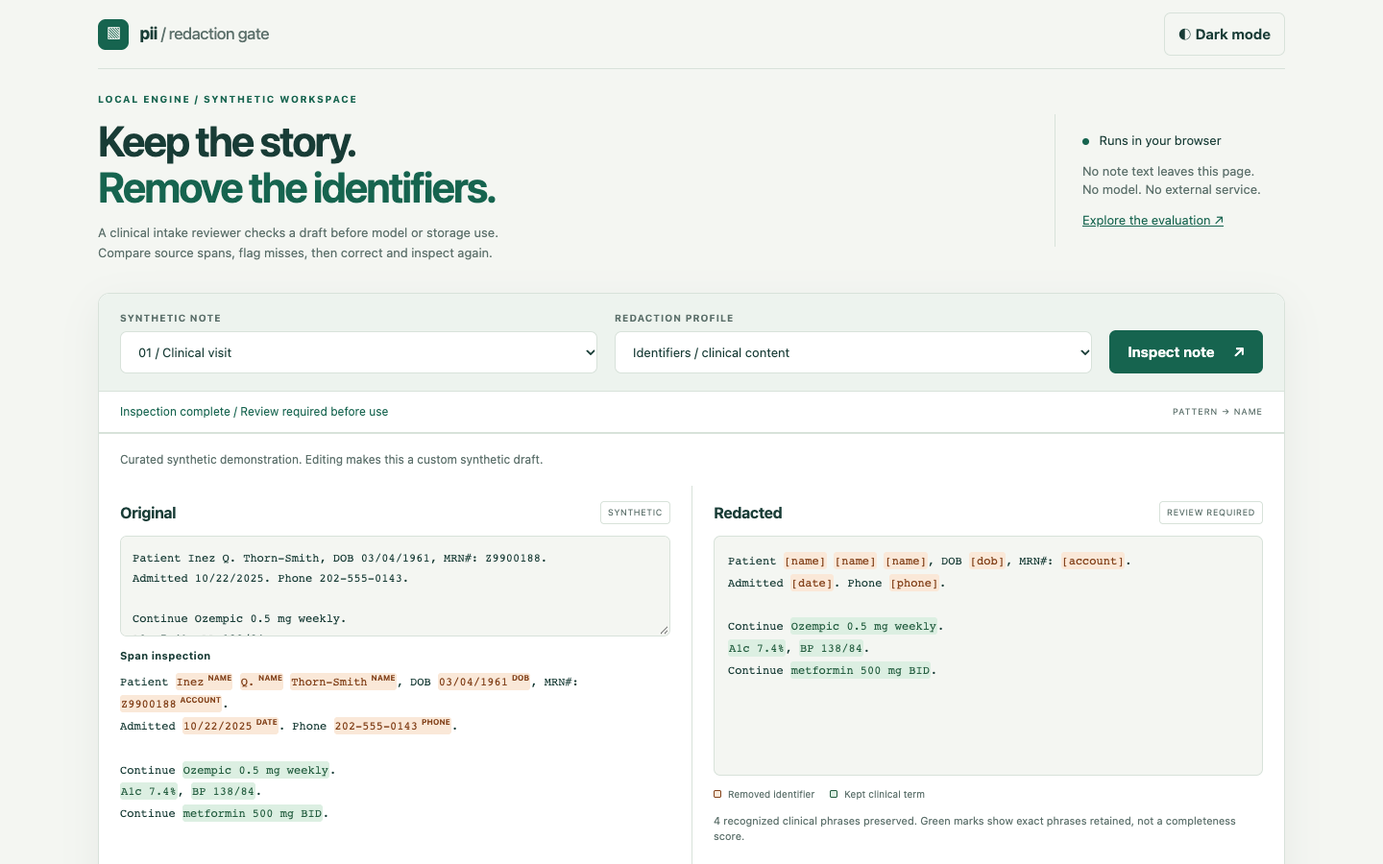
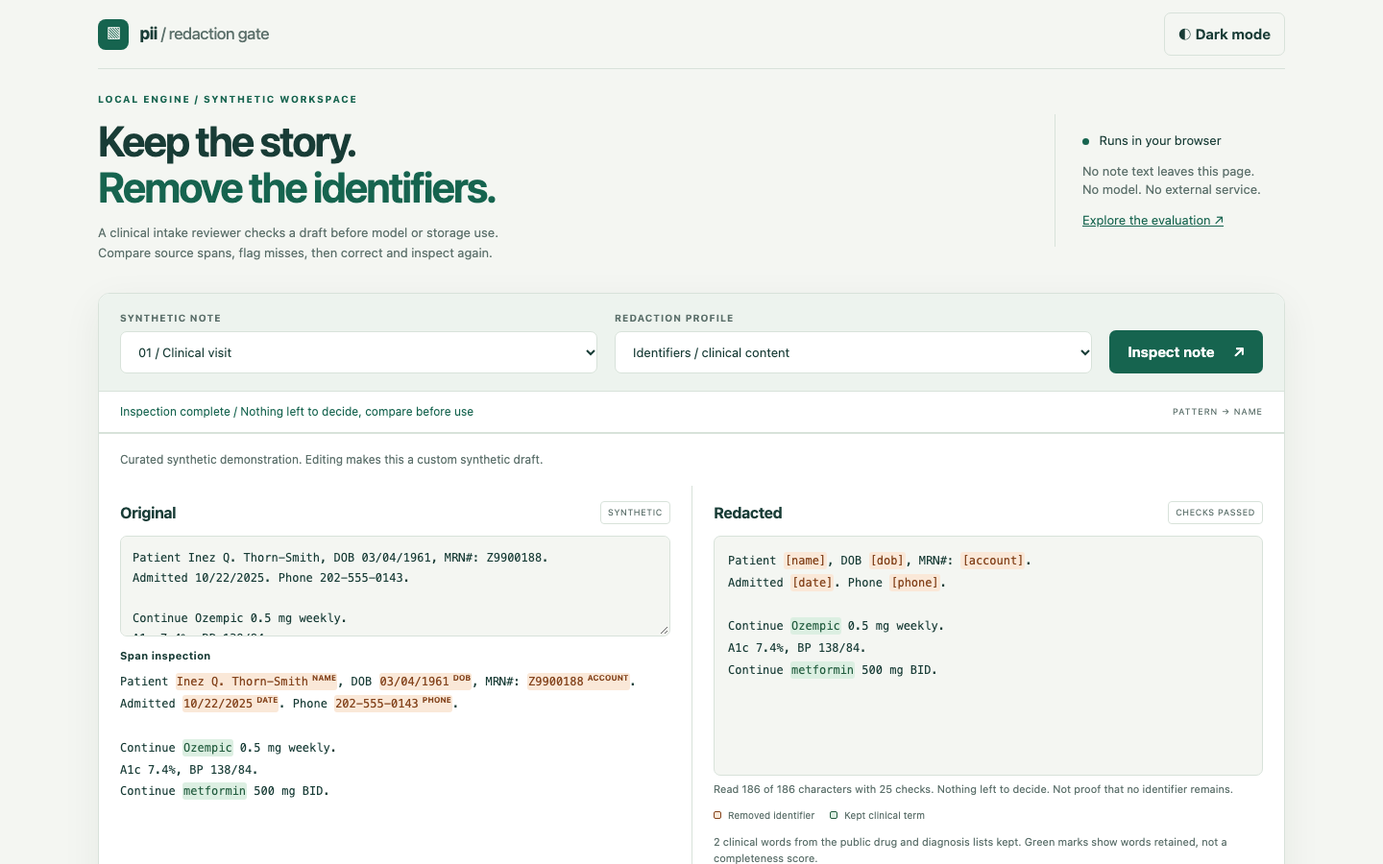
Fix plural wording in the demo scan report and refresh its screenshot
The screenshot is a headless Chrome capture of the current page at
1440 by 900. The other files in docs/media still show the earlier page.

diff --git a/docs/demo.js b/docs/demo.js
@@ -54,7 +54,8 @@ function showScan(result) {
  const s = result.scan
  const read = `Read ${s.read} of ${s.characters} characters with ${s.checks.length} checks.`
  const not = s.notChecked.length ? ` Not checked under this profile: ${s.notChecked.join(', ')}.` : ''
- const verdict = result.status === 'review' ? ` ${result.review.length} span${result.review.length === 1 ? '' : 's'} need review before sending.` : ' Nothing left to decide. Not proof that no identifier remains.'
+ const n = result.review.length
+ const verdict = result.status === 'review' ? ` ${n} span${n === 1 ? ' needs' : 's need'} review before sending.` : ' Nothing left to decide. Not proof that no identifier remains.'
  $('scan-report').textContent = read + not + verdict
  for (const r of result.review) {
   const li = document.createElement('li')
@@ -122,7 +123,7 @@ async function run() {
    $('counts').append(item)
   }
   if (!$('counts').children.length) $('counts').textContent = blocked ? 'Withheld on failure' : 'No rules matched'
-  $('kept').textContent = blocked ? 'No content is available for sending.' : `${current.kept.length} clinical words from the public drug and diagnosis lists kept. Green marks show words retained, not a completeness score.`
+  $('kept').textContent = blocked ? 'No content is available for sending.' : `${current.kept.length} clinical word${current.kept.length === 1 ? '' : 's'} from the public drug and diagnosis lists kept. Green marks show words retained, not a completeness score.`
   showScan(current.result)
   $('send-status').textContent = blocked ? 'Send gate: BLOCKED. No payload available.' : review ? 'Send gate: refused until a reviewer marks the flagged spans reviewed.' : 'Send gate: ready for a local simulated attempt.'
  } catch {

diff --git a/README.md b/README.md
@@ -1,86 +1,138 @@
 # Clinical text redaction gate
 
-For teams exploring how to protect free text before a model prompt or a record write. Clinical notes mix identifiers with useful information. This small, deterministic engine removes recognized identifier shapes while preserving medications, doses, lab values and conditions. If a redaction stage fails, the send gate refuses the record.
+A rule-based gate for clinical free text on its way to a model prompt or a record store. It removes identifiers, keeps the clinical content (drugs, doses, labs, diagnoses), and tells you what it could not decide. Every result is one of three things:
 
-**This is a synthetic-data demonstration, not validated clinical de-identification.** A successful run can still contain identifiers. No real patient, employer or clinical data was used.
+- **clean**: every check this profile runs read the whole input and found nothing left to decide. This is not proof that no identifier remains. The result lists what was read, which checks ran, and the known gaps no check can see.
+- **review**: some spans could not be decided (a word that could be a name or a term, a number that looks like a scan error, a script the rules do not read). The send guard refuses the result until a person has looked.
+- **blocked**: something failed or could not be read. The output is `[redaction-blocked]` and nothing is sent.
 
-![Interactive redaction flow with synthetic text](docs/media/demo-1440.png)
+**This is not validated de-identification.** It is a public demonstration built and tested on synthetic text and on public case reports with fictional identifiers planted in them. No real patient data was used. Do not use it as the only control for protected health information.
+
+## Honest headline
+
+| Test set | What it is | Result | Status of the set |
+|---|---|---|---|
+| Real public case reports, 9 documents, 38 planted fictional identifiers ([PR 4](https://github.com/kvmadden/pii-redaction-gate/pull/4)) | Open-access case reports with identifiers planted by a program | Untuned gate (main before this work): **20 of 38 removed (52.6%)**, an identifier left in **9 of 9** documents | The honest current measure for main |
+| Same 9 documents | | This branch: 35 of 38 removed, an identifier left in 2 of 9 documents, both marked for review | Development data. Its failure list was public and its misses were read while rules changed |
+| 182 synthetic snippets, 207 labeled identifiers | Written with the first release | This branch: 184 of 207 (88.9%). 184 of 195 (94.4%) without the 12 ages under 90 the policy keeps | Development data |
+| 27-template development check | 27 identifier templates written 4 times each, plus 6 clinical sentences | This branch: 26 of 27 templates. The one miss is the title in "Dr. Emrys Calder", which is kept on purpose | Development data. Not held out: its vocabulary was added to a protected word list after it was committed |
+
+No number on this page comes from a set that was written blind and locked before its first run. A fresh blind set is specified in [docs/fresh-test-spec.md](docs/fresh-test-spec.md). Until it is written, scored once and published, there is no headline accuracy figure.
+
+Earlier versions of this README and its case page reported **104 of 108 (96.3%)** on a "held-out" set. That set is the 27-template development check above. Its 108 rows are 27 templates written four times, and its own words (Jardiance, Rheumatoid, Portal, Telephone) were added to the name tier's protected list after it was frozen. The figure is withdrawn.
 
 ## Try it
 
-Run `npm run demo` in this repository, then open [the redaction inspector](http://127.0.0.1:8769). No install step is needed with Node 22 or later. Pick a fictional note or paste synthetic text, choose one of the four real profiles, review labeled original spans beside redacted text and per-type counts, and try the simulated send. Switch between light and dark themes with the header button. Choose Blank note to see the empty state. Green marks identify a finite set of clinical phrases preserved verbatim, not every clinical term. Toggle a pattern failure to see the same engine return a blocked placeholder and the shared send guard refuse it. Editing a note invalidates the previous result. No note text is transmitted or persisted by the demo. The faxed prior authorization request, discharge summary and pharmacy refill call are curated transcriptions with synthetic source IDs and dates. They are separate from the frozen evaluation corpus. Review actions save action metadata in browser local storage until cleared. They never authorize a send or certify output. The inspector includes original and held-out identifier recall with grouped precision from `eval/comparison.json`.
+```bash
+# Library
+node --input-type=module -e "
+import { redactText, assertSendable } from './src/index.js'
+const r = redactText('Patient Inez Thorn, DOB 03/04/1961, seen at Riverside Clinic. Continue metformin 500 mg BID.', { source: 'clinical-note' })
+console.log(r.text, r.status, r.review)
+"
 
-Screenshot assets at 1440×900 and 390×844, full mobile views, dark and blocked states, and the short [core flow GIF](docs/media/inspector-flow.gif) are in `docs/media/`.
+# Command line: exit 0 clean, 3 needs review, 2 blocked, 1 usage error
+printf 'Patient Inez Thorn, MRN 4471023. Continue metformin.\n' | node bin/redaction-gate.js --source clinical-note
 
-The static demo also works when the `docs` directory is served on its own. Its runtime modules are exact generated copies of the production modules, checked by a test. No build service, API key or paid model is involved. The send action is a local simulation, not a clinical workflow integration.
+# Browser demo, local only
+npm run demo   # then open http://127.0.0.1:8769
+```
 
-## Reviewer workflow and product boundary
+No install step and no dependencies with Node 22 or later. Nothing is sent over the network.
 
-A clinical intake reviewer compares a synthetic transcription with redacted output before handing a draft to a downstream application. A missed identifier is flagged locally, then the reviewer corrects the draft and inspects again. Marking reviewed is an acknowledgment only. The simulated send still exercises the existing engine gate independently. No OCR, EDI parsing, clinical decision, coverage determination or refill authorization is implemented.
+In the demo, pick a fictional note, compare the original spans with the redacted text, and read the scan report under the output: characters read, checks run, checks this profile skips, and each span that needs review with its reason. The simulated send passes a clean result, refuses a review result until "Mark as reviewed" is pressed for that exact revision, and refuses a blocked one. The failure toggle makes the engine fail at the pattern stage to show the blocked path.
 
-This reusable engine and send guard are the shared capability. Source-specific intake, identity verification and clinical decisions belong to consuming applications. Rules are the baseline because their behavior is inspectable and has no model-call cost. This prototype adds no generative model. Detection misses remain visible rather than hidden by a model novelty claim. A future model or OCR integration would need a new frozen evaluation and accountable review before use.
+## How it decides
 
-The local log has no authentication, reviewer identity, tamper protection or cross-user isolation. It stores fixture category or custom-draft label, page revision, profile, action and timestamp, without note text or identifier values. Page revisions restart on reload and cannot reconstruct an input. It is a usability demonstration, not a durable clinical audit system. Clear it on a shared browser.
+The text runs through up to three tiers, then a residual scan reads the output again.
 
-Workflow value is unmeasured. Before expanding scope, measure reviewer time, missed-identifier flags, correction cycles and acceptance on independently labeled synthetic cases. Do not infer clinical benefit from engine latency or browser clicks. The [15-check assessment](docs/evidence/polish/assessment.md) distinguishes implemented evidence from remaining limits. This change was implemented and tested with Codex assistance, building on the existing engine and evaluation.
+1. **Patterns.** Email, SSN, dates of birth, Luhn-checked cards, phones (including international and Unicode dash forms), street addresses, city with state and ZIP, coordinates. Under the clinical profiles also URLs, validated IPv4 and IPv6, MAC addresses, labeled record and plan numbers, dates in numeric, ISO, month-name and ordinal forms, and ages over 89. Dates are validated, so "2/3 weeks", "3/4 strength" and a prednisone taper stay. Every rule runs in linear time, and inputs over 2,000,000 characters block.
+2. **Names.** Known names from an optional people map become role tokens (`[patient]`). Then a token classifier decides each capitalized word from evidence: titles, labels, relation words, greetings and sign-offs, facility types, initials, eponyms before a clinical head noun ("Bell palsy"), first plus last name pairs, heading runs, and finally the word's class and position. A title outranks every word list. When the evidence conflicts, the word goes to review.
+3. **Topics** (standard and strict profiles only). Removes whole sentences about sensitive personal topics.
+4. **Residual scan.** Undecided or name-shaped words, unlabeled long numbers and letter-digit codes, digits mixed with O, I or l, birth years without a reference date, scripts the rules do not read, invisible characters, obfuscated email, and unredacted "Name:" fields. Each becomes a review item with offsets into the output.
 
-## What changed and how it was tested
+The name tier's vocabulary is not hand-picked. It is built by [scripts/build-lexicon.mjs](scripts/build-lexicon.mjs) from public-domain sources, each pinned by SHA-256 in [data/lexicon/manifest.json](data/lexicon/manifest.json): US Census 2010 surnames and 1990 first names, Drugs@FDA product names and ingredients, CMS ICD-10-CM 2025 descriptions, and Webster's Second International word list. A test checks that the words the old list took from the template set (Jardiance, Rheumatoid, Portal, Telephone) and the template names do not appear in the name-tier source, and that the public lists still classify those words.
 
-The [original published evaluation](eval/results.md) remains unchanged: **70.5% recall, 146 of 207 identifiers**, on 182 synthetic snippets. The original dataset is unchanged too. It now serves as development evidence, not an unseen test.
+## Profiles and sources
 
-Before changing detection rules, a [seeded generator](eval/generate-heldout.js) and its [held-out fixtures](eval/heldout.json) were committed in `d05d144`. The engine changes were committed in `dc528aa` before the held-out set was scored. No detection changes followed that scoring. The held-out set has 114 snippets, 108 identifiers, and 114 labeled clinical negatives. It uses four variants of each of 27 identifier templates plus six clinical-only notes. Its repeated grammar and single author limit its independence and diversity.
+| Profile | Tiers | Used for |
+|---|---|---|
+| `identifiers` (default) | patterns with clinical rules, names with the unknown-name pass, residual scan | clinical notes, discharge summaries, referral letters, patient messages, call and voice transcripts |
+| `strict` | all of the above plus topic sentences | personal email and SMS, where the topic itself is sensitive |
+| `standard` | basic patterns, known names, topic sentences | general free text, support tickets, chat exports |
+| `light` | basic patterns only, code spans exempt and reported as not read | source code, build logs, commit messages |
 
-Both engines were scored with an empty people map, the `identifiers` profile, the same scorer and identical fixtures. The baseline engine is untouched `origin/main` at `91c4e16`. Full removal requires every labeled letter and digit to be removed. Hard-negative preservation requires every labeled clinical character to survive.
+A source id that is not registered in `src/profiles.js` blocks. A typo such as `clinical_note` used to select `standard` silently and return a note unchanged. To accept unknown sources on purpose, pass `{ unknownSource: 'identifiers' }`.
 
-| Dataset | Identifier recall before → after | Span precision before → after | Clinical negatives preserved before → after |
-|---|---|---|---|
-| Original, 207 identifiers | 70.5% → **90.3%** (187/207) | 82.6% → **97.0%** | 88.1% → **98.2%** (223/227) |
-| Held out, 108 identifiers | 25.9% → **96.3%** (104/108) | 66.7% → **96.4%** | 84.2% → **100%** (114/114) |
-
-[Before and after tables](eval/comparison.md) report every identifier type's recall, precision by compatible type family, and every remaining miss and false-positive span. [Raw results](eval/comparison.json) also include damaged clinical spans and character precision. Precision uses emitted spans overlapping gold, rather than exact entity boundaries. Names, relatives and facilities share a prediction family, as do labeled account and record IDs. These grouping choices are explicit in the report. They do not establish regulatory performance.
-
-New regression tests were run RED before implementation, then GREEN. The full repository suite passes on untouched main and on the candidate. Existing tests inject failing stages, test blocked writer behavior and check that failures never return input text. [Verification evidence](docs/evidence/verification.md) records commands, exit codes and visual checks.
-
-## Results and limits a reader should inspect
-
-- Dates now include numeric, ISO, month-name and contextual month/day forms. Year alone remains. Ages over 89 are targeted. Younger ages are retained. The original set labels younger ages as identifiers, so its recall intentionally includes those misses.
-- Labeled MRNs, accounts, plan numbers, device serials, licenses and vehicle identifiers now accept alphanumeric values. URLs and some IP formats are covered. Unlabeled IDs and unsupported international formats can survive.
-- The name pass handles middle initials, compound surnames and family context. A finite clinical vocabulary protects common brands, eponyms and section headings. It is not a comprehensive drug dictionary or named-entity model. Unknown clinical terms may still be removed, and names that overlap vocabulary can survive.
-- All four held-out misses are the same IPv4 template, `192.0.2.87.` at sentence end. IPv6 in this set was caught. This known boundary bug was retained after held-out scoring to honor the no-tuning rule. It needs a future independently frozen test set before another improvement claim.
-- Original-set misses include lowercase `tanya`, single names such as `Omar`, and grouped member numbers. False positives and damaged negatives remain, including some clinical or section vocabulary. See the complete lists rather than relying on the aggregate.
-- The held-out city-plus-ZIP template labels only the city. Its unlabeled ZIP is correctly removed but counted as a false positive by the frozen annotations. Neither labels nor reported precision were changed after scoring.
-- English and US-centric rules, synthetic text only, small samples and repeated held-out templates. No claim of HIPAA compliance, Safe Harbor certification, or readiness to process real PHI. There is no verified coverage of every identifier format.
-
-## Technical detail
-
-`identifiers` runs patterns, then known and unknown names. It keeps the topic tier off so medical content is not deleted wholesale. `strict` adds sensitive-topic sentence removal. `standard` uses known names and context-gated topic rules. `light` applies the original pattern behavior and exempts code spans. New clinical patterns are enabled for `identifiers` and `strict`, preserving the direct `applyPatterns(text)` default and lighter profiles.
+## Using it in a pipeline
 
 ```js
-import { redactText } from './src/index.js'
-const result = redactText(
-  'Patient Inez Thorn, admitted 10/22/2025. Continue metformin 500 mg BID.',
-  { source: 'clinical-note' }
-)
-// result.text includes typed replacement tokens and the clinical instruction
-// result.blocked signals an execution failure, not detection completeness
+import { gateParsedTranscript, sendRedacted, describeGate, assertSendable } from './src/gate.js'
+
+// One call: redact, check, then call your sink with the redacted record only.
+sendRedacted({ parsed: record, source: 'clinical-note', sink: (payload) => writeRow(payload) })
+
+// Or step by step
+const gate = gateParsedTranscript({ parsed: record, source: 'clinical-note' })
+console.log(describeGate(gate))     // says what was checked, never just "clean"
+assertSendable(gate)                // throws on blocked, and on review unless { acceptReview: true }
 ```
 
-The API remains additive. `redactText` returns redacted text, hit types and counts, and a blocked flag. Unknown explicit profiles, invalid inputs and failing tiers return `[redaction-blocked]`. Record helpers accumulate that state. Writers must call `assertSendable` before egress. The demo and Node writers use the same pure guard.
+- `assertSendable` accepts only results this library sealed. A hand-built `{ blocked: false }`, a spread copy, or the raw record is refused.
+- Every string in a record is redacted, wherever it sits. A declared text field of the wrong type, a value the code cannot read (a Date, a Buffer, a class instance), a cycle, nesting deeper than 32 or an identifier used as a key blocks the record.
+- Originals are kept only on the non-enumerable `changes` list, for the optional local quarantine sidecar. That file is plain JSON with mode 0600. It is not encrypted and has no retention limit.
+- Put your own facility, clinician and patient names in the people map (`REDACTION_PEOPLE_PATH`). That is how a "needs review" facility becomes a deterministic removal next time. Use `loadPeopleMap({ required: true })` or `requirePeopleMap: true` to block when the map cannot be read.
+- Pass `referenceDate` so birth years can be judged against the 89-year limit. Without it a birth year goes to review.
 
-Originals belong only in the optional local quarantine sidecar, with directory mode 0700 and file mode 0600. A failed quarantine write logs an error but does not block already-redacted output. A missing people-map file falls back to an empty map. Unselected record fields are copied unchanged. These existing limits remain.
+## Evidence in detail
+
+All engines run with the identifiers profile and an empty people map. Full removal means every labeled letter and digit is gone. [eval/comparison.md](eval/comparison.md) lists every miss and every false positive.
+
+**182 development snippets** (85 clinical, 35 message, 22 general, 40 negative), 207 labeled identifiers and 227 labeled clinical phrases:
+
+| Measure | First release `91c4e16` | main before this branch `facae00` | This branch |
+|---|---|---|---|
+| Identifiers fully removed | 146 of 207 (70.5%) | 187 of 207 (90.3%) | 184 of 207 (88.9%) |
+| Clinical phrases kept intact | 200 of 227 (88.1%) | 223 of 227 (98.2%) | 226 of 227 (99.6%) |
+| Removed spans that overlap a labeled identifier | 157 of 190 (82.6%) | 196 of 202 (97.0%) | 185 of 186 (99.5%) |
+| Snippets with an identifier left | 55 of 118 | 19 of 118 | 23 of 118 |
+| Of those, marked for review | no status | no status | 10 of 23 |
+| Of those, marked clean | no status | no status | 13 of 23: 12 ages under 90 and one unlabeled group number |
+
+Recall fell from 187 to 184 because ten facility names made of ordinary words ("Lakeside Clinic", "Valley Birth Center") now go to review instead of being removed. That trade is deliberate. The rule that removed them also turned "Past Medical History" into "[name] History" and "Outside Hospital" into "[name]", which this set never tested.
+
+**27-template development check** (`eval/heldout.json`, a historical file name): 7 of 27 templates for the first release, 26 of 27 for main, 26 of 27 for this branch. All 6 clinical sentences are kept by this branch. The labels count the unlabeled ZIP in one template as a false positive and the title "Dr." as part of a name. Neither label was changed.
+
+**Real public text** (PR 4, not merged here): the honest current measure is PR 4's result for the untuned gate, 20 of 38 planted identifiers in its 9 held-back documents, with at least one left in every document. This branch removes 35 of 38 there and leaves an identifier in 2 of 9 documents, both marked for review. That is development data for this branch. PR 4's own rule changes (its version 2) are not merged, because they made names inferred from one sentence safe across the whole document ("morphine (Alice)" kept Alice everywhere, "internal medicine (Kaplan)" kept "Mr. Kaplan").
+
+**Speed.** Linear in input length. About 4 seconds per megabyte of realistic note text on an Apple M-series laptop, and the old 17-second email case on 100 KB now takes about one second. `test/perf.test.js` fails if doubling a hostile input comes near quadrupling the time.
+
+## Limits
+
+- Rules, not a model. English and US formats. Transcribed text only: no OCR, images, PDFs or attachments.
+- Known gaps, listed in every result as `scan.knownGaps`: a lowercase name that is also an ordinary word ("grace", "will") unless a title, relation word, greeting or person verb marks it, a facility named with a clinical word, a name made of two English words joined together, ages under 90 (kept on purpose), unlabeled numbers under 7 digits and codes under 6 characters, identifiers spelled out in words or split across lines, and descriptions that identify a person without naming them.
+- The English list is from 1934, so modern words such as "fax" and "email" are unknown words. At a sentence start they go to review.
+- Review volume is real: 17 of 182 development snippets and 5 of 9 real documents needed review. It has not been measured on real clinical workloads, and neither has reviewer time.
+- No external baseline (Presidio, Philter, the PhysioNet deid tool) has been run on the same sets. The fresh-test spec includes one.
+- Structure is lost: tokens replace values, with no consistent surrogates and no date shifting.
+- The quarantine sidecar holds originals in plain text.
+
+## Development
 
 ```bash
-npm test
-node scripts/build-demo.js
-npm run eval
-# Reproduce the comparison with a checkout of 91c4e16 outside this tree
-BASELINE_ENGINE=/path/to/baseline/src/engine.js node eval/compare.js
+npm test                      # 201 tests, about 10 seconds
+npm run check                 # committed comparison matches the engine, lexicon matches its hash
+node eval/compare.js          # print the development comparison for this tree
+node eval/run.js              # print per-profile results on the development snippets
+node scripts/build-demo.js    # copy the runtime modules into docs/runtime (checked by test)
 ```
 
-`npm run eval` refreshes the legacy report files with the current engine. The committed `eval/results.*` files deliberately retain the published before result. Use `eval/compare.js` for the separate before and after report. Regenerate the held-out JSON only to verify byte identity, never to select favorable samples.
+To regenerate the comparison with the baselines, export each commit's `src` outside the tree (for example `git archive 91c4e16 src | tar -x -C /tmp/91c4e16`, plus a `package.json` with `"type": "module"`) and run `node eval/compare.js --write --engine release=91c4e16=/tmp/91c4e16/src/engine.js --engine previous=facae00=/tmp/facae00/src/engine.js`.
 
-## Development history and license
+Rebuilding the lexicon needs the six source files listed in the manifest. The script refuses any file whose SHA-256 differs from the pinned value. CI runs the tests and both checks on Node 22 and 24.
 
-Originally built in June 2026 as a privacy gate for a private knowledge system, maintained through October and published as a standalone snapshot. The original release evidence and technical background are preserved in the [published README](docs/published-readme.md). This upgrade adds clinical identifier coverage, a frozen synthetic evaluation and an inspectable demo.
+## History and license
+
+Built in June 2026 as a privacy gate for a private knowledge system and published in October as a standalone snapshot. The [first release README](docs/published-readme.md) and the [verification records](docs/evidence/) are kept as records, with corrections at the top where their claims no longer hold. This version replaces the hand-picked clinical word list with public vocabularies, adds the review status, the scan report, the sealed send guard and the command line, and relabels both synthetic sets as development data.
 
 MIT. Copyright 2026 Kevin Madden. All fixtures are fictional or synthetic.

diff --git a/CHANGELOG.md b/CHANGELOG.md
@@ -1,0 +1,26 @@
+# Changelog
+
+## 2.0.0 (November 2026)
+
+Breaking changes:
+
+- An unregistered source id blocks. It used to select `standard`, which skips the unknown-name pass. Pass `{ unknownSource: '<profile>' }` to accept unknown sources on purpose.
+- The default profile is `identifiers`. Patient messages and call and voice transcripts map to `identifiers` instead of `strict`, because strict's topic tier deleted the clinical sentences they carry.
+- `assertSendable` accepts only results this library sealed, and refuses `review` results unless called with `{ acceptReview: true }`.
+- Results carry `status` (`clean`, `review` or `blocked`), `review` items and a `scan` report. `REDACTION_VERSION` is 3.
+- Record helpers redact every string in a record and block values they cannot read, non-object records and identifiers used as keys. `changes` is no longer enumerable.
+
+Added:
+
+- A name tier built on public vocabularies (Census names, Drugs@FDA, ICD-10-CM, Webster's Second), pinned by SHA-256.
+- The residual scan and `KNOWN_GAPS`.
+- `sendRedacted`, the `redaction-gate` command, `index.d.ts`, CI on Node 22 and 24.
+- Validated dates, IPv4 and IPv6, labeled IDs, ages over 89, international phones, Unicode digits and dashes, lowercase and city-state-ZIP addresses.
+
+Evaluation:
+
+- Both synthetic sets are development data. The set called held out in 1.x is a 27-template development check, reported per template. See the README.
+
+## 1.0.0 (October 2026)
+
+First public release.

diff --git a/docs/evidence/verification.md b/docs/evidence/verification.md
@@ -1,5 +1,7 @@
 # Verification record
 
+> **Correction, 3 November 2026.** The set this record calls held out (`eval/heldout.json`) is a 27-template development check: 27 identifier templates written four times each, plus 6 clinical sentences. `dc528aa` added its own vocabulary (Jardiance, Rheumatoid, Portal, Telephone) to the protected word list after `d05d144` committed it, so it was never blind, and its 104 of 108 is 26 of 27 templates. The commands, exit codes and hashes below are an accurate record of what was run. The conclusions drawn from them about held-out performance are withdrawn. See the main [README](../../README.md).
+
 Node v24.14.1, macOS arm64. No package dependencies or install step. Baseline `91c4e16`, fetched from origin/main before work and rechecked before publication. No open PRs were present on either check. Source and archive searches found no separate implementation of this upgrade.
 
 ## RED then GREEN

diff --git a/docs/published-readme.md b/docs/published-readme.md
@@ -1,5 +1,7 @@
 # Layered PII Redaction
 
+> **Correction, 3 November 2026.** This is the first release README, kept as a record. Two of its claims no longer hold. An unknown source did not fail safe: it selected `standard`, which skips the unknown-name pass, so a mistyped source returned a note unchanged. Unknown sources now block. The evaluation numbers here are on the 182 development snippets, written before the rules changed and used as development data since. See the main [README](../README.md) for the current behavior and evidence.
+
 A fail-closed, rule-based engine that removes personal identifiers from free text before it is sent to a model or written to a datastore.
 
 > This is pattern-based PII redaction. It is not certified clinical de-identification. It has not been validated against any regulatory standard and should not be used as the only control for protected health information.

diff --git a/docs/evidence/polish/assessment.md b/docs/evidence/polish/assessment.md
@@ -1,5 +1,7 @@
 # Expert-reader assessment
 
+> **Correction, 3 November 2026.** This self-assessment scored the template set as held out and repeated its 104 of 108 and 96.3% figures. That set is a 27-template development check (26 of 27 templates), and the real-text measure for the same engine was 20 of 38 planted identifiers. The "after" scores for evaluation and generalization rest on that claim and should be read as withdrawn. See the main [README](../../README.md).
+
 November 1, 2026. Self-assessment using the supplied 15-check expert-reader rubric. Scores assess portfolio evidence within the stated prototype boundary, not clinical validation or the reader's private criteria. One point means evidenced, half means limited evidence, zero means absent.
 
 | Check | Before | After | Evidence and remaining limit |

diff --git a/SECURITY.md b/SECURITY.md
@@ -1,0 +1,9 @@
+# Security and privacy reports
+
+This is a demonstration project, not a supported product. Do not send real patient data or real identifiers in an issue, a pull request or an email.
+
+If you find text that passes the gate with an identifier left and a `clean` status, that is the most useful report. Please open an issue with a fictional reproduction: the same shape, with invented names and numbers, plus the profile or source you used and the output you got.
+
+For anything you would rather not post in public, email kevin@kvmadden.com.
+
+What the gate does not claim is listed in the README under "Limits" and in every result as `scan.knownGaps`. A report about one of those is still welcome, because it shows which gap matters in practice.

diff --git a/docs/evidence/polish/verification.md b/docs/evidence/polish/verification.md
@@ -1,5 +1,7 @@
 # Clinical inspector verification
 
+> **Correction, 3 November 2026.** The "held-out" metrics referred to here come from a 27-template development check, not a blind set. See the main [README](../../README.md).
+
 Base: origin/main `63ac3abc48094e86f6883f99c1586b45bf6ebd3f`. Candidate branch: `grok/pii-redaction-gate-polish`. Node v24.14.1, npm 11.11.0. No runtime or test dependencies added.
 
 ## Pickup and scope
